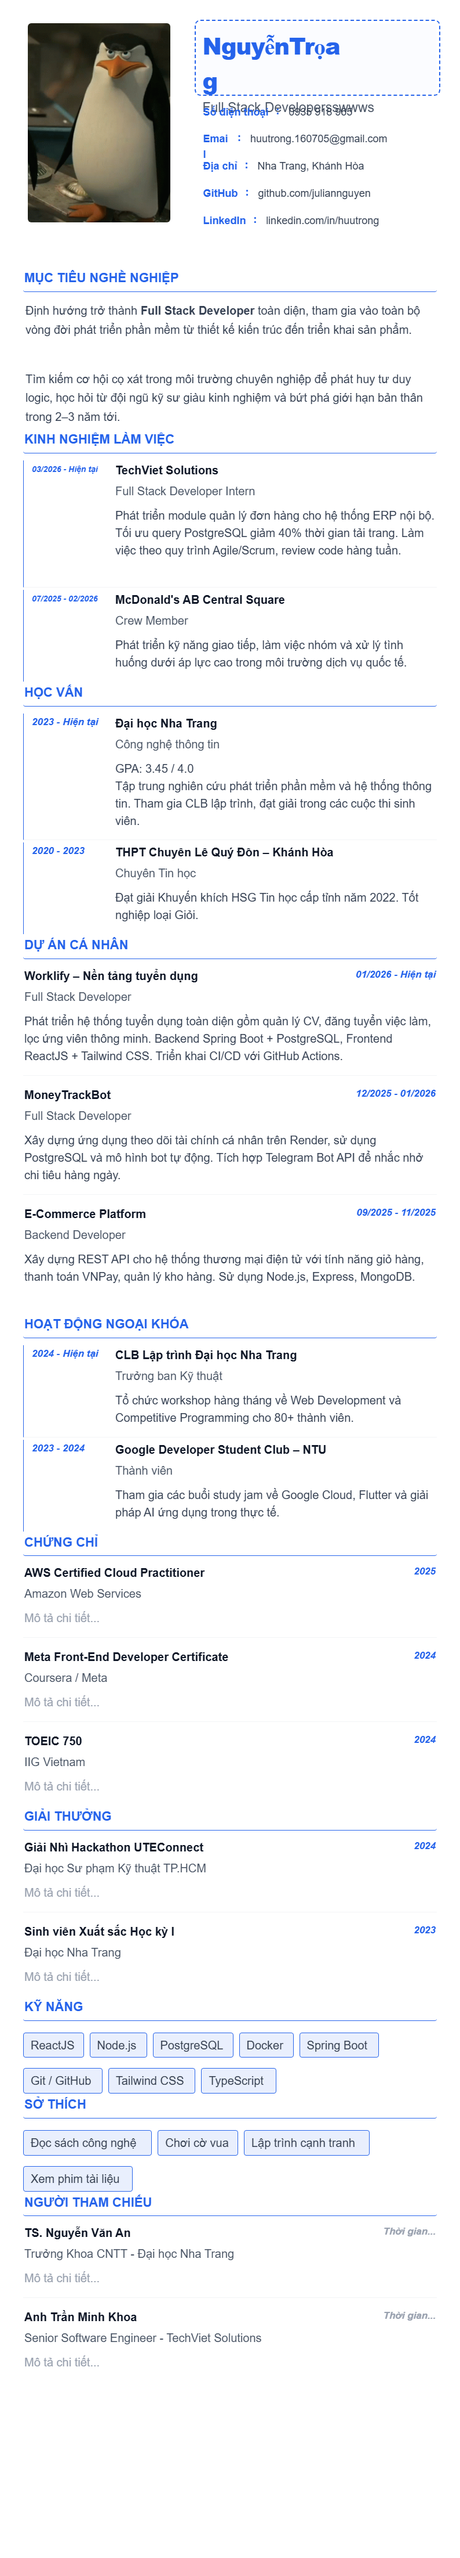
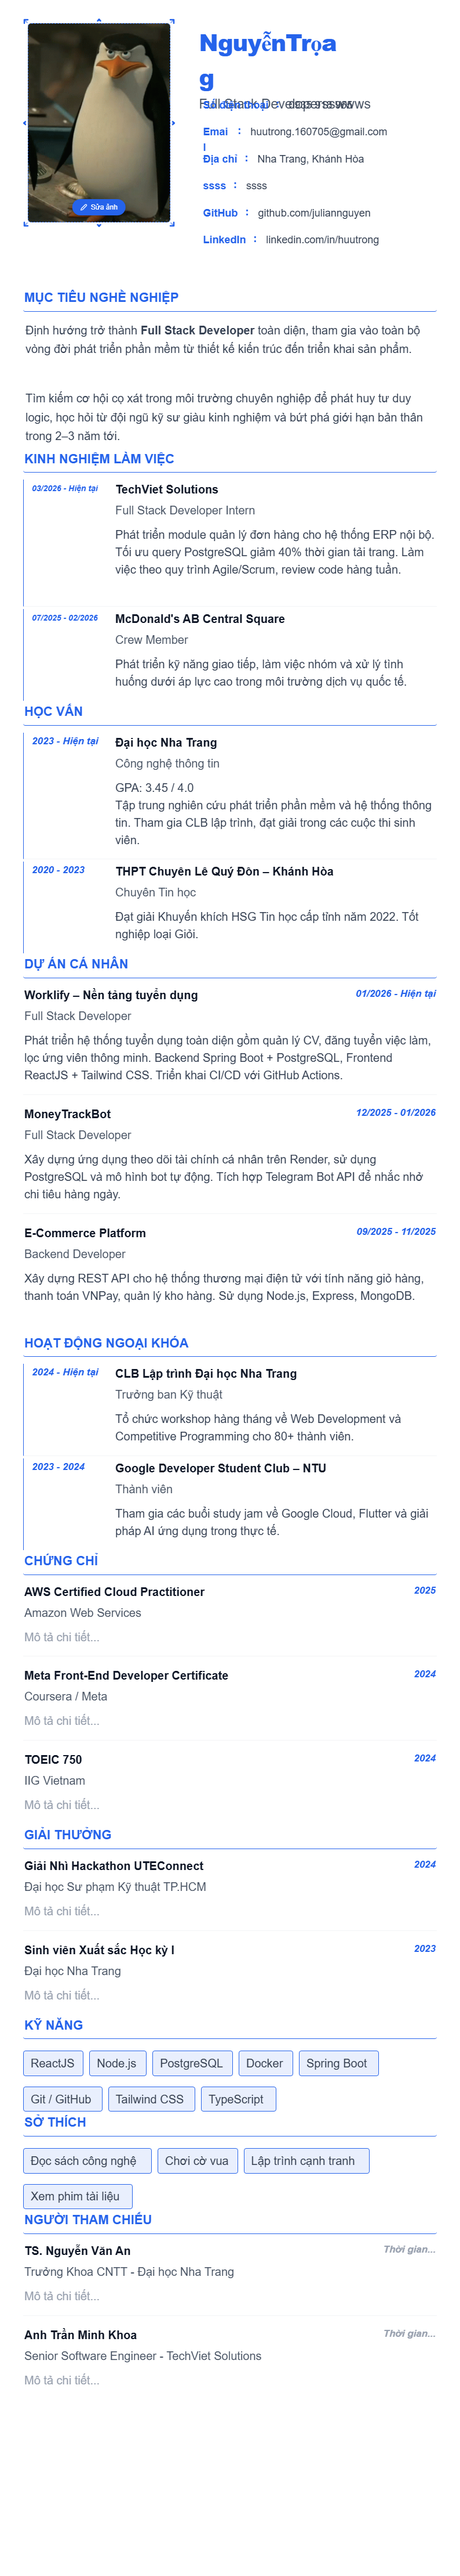
fix

diff --git a/frontend-app/src/components/cv-builder/templates/SimpleTemplate.jsx b/frontend-app/src/components/cv-builder/templates/SimpleTemplate.jsx
@@ -511,15 +511,16 @@ const getFontSizeStyle = (sizeValue) => {
 // Bọc bằng TemplateContext.Provider để phát tán cấu hình xuống component con
 // ─────────────────────────────────────────────────────────────────────────────
 
-const SimpleTemplate = ({ cvData, onSectionClick, onUpdateSectionData }) => {
+const SimpleTemplate = ({ cvData, selectedSection, onSectionClick, onUpdateSectionData }) => {
   const { layout, data, settings } = cvData;
-  const [highlightedSection, setHighlightedSection] = useState(null);
   const containerRef = useRef(null);
 
   // Cơ chế phân trang A4 đã bị xóa - hiện tại là layout linh hoạt 1 trang dài
 
-  const handleSectionClick = (sectionId) => {
-    setHighlightedSection(sectionId);
+  const handleSectionClick = (e, sectionId) => {
+    // Chặn sự kiện nổi bọt lên canvas cha, tránh bị hiểu nhầm là "click ra ngoài"
+    // và bị setSelectedSection(null) đè ngay sau đó.
+    e.stopPropagation();
     if (onSectionClick) onSectionClick(sectionId);
   };
 
@@ -530,14 +531,14 @@ const SimpleTemplate = ({ cvData, onSectionClick, onUpdateSectionData }) => {
       if (!SectionComponent) return null;
 
       return (
-        <div key={itemId} onClick={() => handleSectionClick(itemId)} className="transition-all cv-section">
+        <div key={itemId} onClick={(e) => handleSectionClick(e, itemId)} className="transition-all cv-section">
           <SectionComponent
             data={data[itemId]}
             sectionTitle={data.sectionTitles?.[itemId]}
             allSectionTitles={data.sectionTitles || {}}
             primaryColor={settings.primaryColor}
             settings={settings}
-            isHighlighted={highlightedSection === itemId}
+            isHighlighted={selectedSection === itemId}
             sectionId={itemId}
             onUpdateSectionData={onUpdateSectionData}
           />

diff --git a/frontend-app/src/pages/candidate/CVBuilderPage/index.jsx b/frontend-app/src/pages/candidate/CVBuilderPage/index.jsx
@@ -109,7 +109,6 @@ const CVBuilderPage = () => {
   const [uiState, setUiState] = useState({ isLoading: false, isSaving: false });
   const [totalPages, setTotalPages] = useState(1);
   const paperRef = useRef(null);
-  const isSectionClicked = useRef(false);
 
   // State quản lý Tên CV và Trạng thái thông báo
   const [cvTitle, setCvTitle] = useState("CV chưa có tên");
@@ -751,13 +750,9 @@ const CVBuilderPage = () => {
           className="wl-canvas flex-1 overflow-y-auto relative flex justify-center py-10 transition-all"
           style={{ marginLeft: isPanelOpen ? "10px" : "0" }}
           onClick={() => {
-            // Dùng setTimeout để đợi xem có Section nào được click không
-            setTimeout(() => {
-              if (!isSectionClicked.current) {
-                setSelectedSection(null); // Tắt viền nếu click ra ngoài
-              }
-              isSectionClicked.current = false; // Reset lại cờ
-            }, 0);
+            // Section bên trong đã stopPropagation khi được click,
+            // nên nếu sự kiện lọt tới đây tức là người dùng click ra ngoài section.
+            setSelectedSection(null);
           }}
         >
           <div
@@ -788,9 +783,9 @@ const CVBuilderPage = () => {
 
             <SelectedTemplate
               cvData={cvData}
+              selectedSection={selectedSection}
               onUpdateSectionData={handleUpdateSectionData}
               onSectionClick={(id) => {
-
                 setSelectedSection(id);
                 setActiveTab("design");
                 setIsPanelOpen(true);
